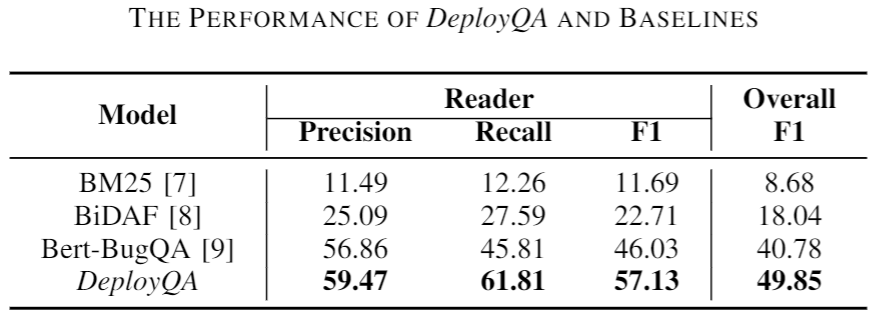
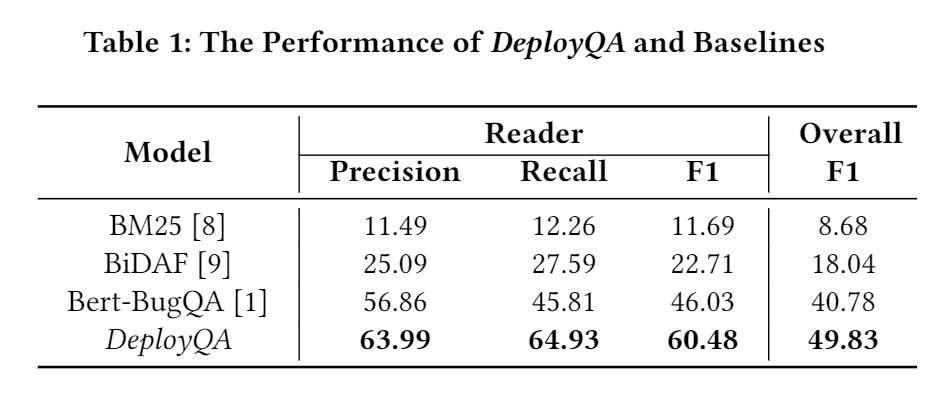
Update

Changed region(s): [[0.0, 0.2167, 0.9763, 0.9598], [0.0915, 0.031, 0.8847, 0.1548], [0.0915, 0.3096, 0.2441, 0.4334]]

diff --git a/README.md b/README.md
@@ -36,7 +36,7 @@ See usage video in [youtube](https://www.youtube.com/watch?v=TVf9w8gD3Ho).
 
 ## Evaluation
 We evaluate the effectiveness of the proposed DeployQA on DeQuAD, a dataset that we created with 2,000 QAs from Stack Overflow. Experimental results show that DeployQA achieves
-an F1-score of 49.85%, which significantly outperforms state-of-the-art approaches.
+an F1-score of 49.83%, which significantly outperforms state-of-the-art approaches.
 
 <img src="https://github.com/Smallqqqq/DeployQA/blob/main/figure/evaluation.png" width="462" height="167">
 
